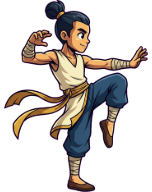
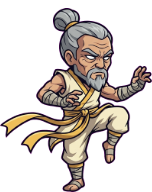
권법사를 4등신 노장으로 다시 그렸습니다
컨셉은 그대로 두고 둘을 고쳤습니다 — 비례와 나이.

── 비례: 말이 아니라 그림으로 못박습니다 ──────────────
첫 판이 6~7등신 소년으로 왔습니다. gen-sheet.js 가 같은 일로 한 번 데었던
자리입니다 (궁수에게 "slim tall body" 라고 적었더니 혼자 7등신). 거기서는
PROPORTION 이라는 글로 막았는데, gen-sprite.js 에는 그게 없었습니다.

둘 다 했습니다.

- PROPORTION 을 gen-sprite.js 에도 두고 group: 'player' 에 붙였습니다.
  앞으로 들어올 넷도 자동으로 걸립니다
- 그리고 **이미 서 있는 전사와 도적을 style 참조로 물렸습니다.** 글로
  "4등신" 이라고 적는 것보다 재라고 그림을 붙이는 쪽이 셉니다

그 김에 STYLE_RULE 이 틀린 말을 하고 있던 것을 고쳤습니다. "three-head
chibi" 라고 박혀 있었는데 그건 상점 사람들 이야기고 주인공 넷은 4등신입니다.
주인공에 물리는 순간 글과 붙인 그림이 서로 다른 말을 합니다. 등신 수를 빼고
**붙인 그림에서 재라고** 바꿨습니다.

── 나이 ────────────────────────────────────────────────
쇳빛 머리, 앞으로 내민 짧은 흰 수염, 깊은 이마 주름, 가늘게 뜬 눈.
늙었지만 약하지 않게 — 맨팔에 힘줄이 서고 자세가 조금도 안 흔들리게
적었습니다. 수염이 턱 밖으로 나와서 실루엣에도 한 조각 보탭니다.

── 재 본 것 ────────────────────────────────────────────
sil-check 통과 — 넷이 여전히 갈립니다. 비례를 맞췄는데도 든 무릎 · 뒤로
날리는 띠 · 벌린 팔이 그대로 남았습니다.
진짜 붉음 0.01% (전사 0.37% · 궁수 0.42% 보다 깨끗합니다).
살빛이 11% 에서 3.4% 로 내렸습니다 — 노장이라 팔을 더 감았습니다.

── 열쇠는 pro 가 아니라 참조였습니다 ───────────────────
그리던 날 gemini-3-pro-image 가 **열한 번 내리 503** 이었습니다.
gemini-3.1-flash-image 로 뽑았는데, 참조 둘이 붓과 비례를 잡아 줘서 셋 옆에
세울 만하게 나왔습니다. 참조가 없었으면 모델을 못 바꿨을 겁니다.
(2.5-flash 는 마젠타를 못 걷어내고 분홍 배경째로 왔습니다)
어느 모델로 뽑았는지 주문서에 적어 뒀습니다.

Claude-Session: https://claude.ai/code/session_01M5pTenpaLjjehZFnDFMiCo

diff --git a/gen-sprite.js b/gen-sprite.js
@@ -54,6 +54,21 @@ const BG = [
   'leave a small clean margin all around.',
 ].join(' ');
 
+// ── 사람은 넷 다 같은 비례여야 합니다 ────────────────────
+// gen-sheet.js 가 같은 문제로 한 번 데었습니다. 궁수에게 "slim tall body" 라고
+// 적었더니 혼자 **7등신 실사 비례**로 나와서, 전사·도적(4등신) 옆에 세우면
+// 딴 게임 사람이었습니다. 여기서도 권법사가 6~7등신 소년으로 왔습니다.
+//
+// **키나 체격은 몸이 아니라 자세와 옷으로 말하게 하고, 비례는 여기서 못박습니다.**
+// 직업 고르기 격자는 여덟을 한 화면에 나란히 세우는 자리라(ART.md 2.5절)
+// 하나만 비례가 달라도 그 칸만 튑니다.
+const PROPORTION = [
+  'PROPORTIONS (identical for every hero in this game): a chunky CHIBI build about four heads',
+  'tall — a big head, a short sturdy torso, short thick limbs, large hands and boots.',
+  'NOT a realistic six-, seven- or eight-head figure, not slender, not lanky, not tall,',
+  'not a teenager and not a young adult body.',
+].join(' ');
+
 const FORBID = [
   // 아이템에서 자꾸 무생물에 눈을 그려 옵니다 — 폭탄 · 모루 · 망치 · 약병에
   // 만화 눈이 달려 나왔습니다. 적과 주인공만 눈을 가집니다.
@@ -98,6 +113,15 @@ const SUBJECTS = [
   // 그래서 튀어나오는 것을 넷으로 나눠 걸었습니다 — 위로 상투, 앞으로 든
   // 무릎, 뒤로 날리는 띠, 옆으로 벌린 손.
   { name: 'player-monk', group: 'player', w: 38, h: 48, anchor: 'bottom',
+    // 첫 판이 6~7등신 소년으로 왔습니다. 말로만 4등신이라고 하면 모델이
+    // 제 결로 갑니다 — 이미 서 있는 둘을 붙여서 비례를 재게 합니다.
+    //
+    // 이 그림은 **gemini-3.1-flash-image** 로 뽑았습니다. 그리던 날 pro 가
+    // 열한 번 내리 503 이었습니다. 참조 둘이 붓과 비례를 잡아 줘서 flash 로도
+    // 셋 옆에 세울 만하게 나왔습니다 — 참조가 없었으면 못 바꿨을 겁니다.
+    //   GEMINI_IMAGE_MODEL=gemini-3.1-flash-image node gen-sprite.js player-monk
+    // (2.5-flash 는 마젠타를 못 걷어내고 분홍 배경째로 왔습니다)
+    style: ['player-warrior', 'player-rogue'],
     what: 'A bare-handed martial artist hero, mid-stance, caught in one dynamic pose. '
         + 'HIS HANDS ARE COMPLETELY EMPTY — no weapon, no staff, no sword, no shield, '
         + 'nothing held and nothing strapped to him. That emptiness is the point. '
@@ -108,10 +132,15 @@ const SUBJECTS = [
         + 'A long cloth SASH tied at his waist streams out BEHIND him, well clear of the '
         + 'body, a separate ribbon of cloth. '
         + 'His hair is gathered into a TOPKNOT that sticks up above the crown of his head. '
+        + 'He is an OLD MASTER, weathered and well past his prime years: iron-grey hair, '
+        + 'a short grey chin beard jutting forward, a heavy lined brow, deep-set narrow eyes '
+        + 'and a hard set mouth. He must clearly read as an old veteran, NOT as a boy, '
+        + 'NOT as a teenager, NOT as a smooth-faced young man. '
+        + 'Old but not frail — corded, wiry muscle on the bare arms, and he holds the stance '
+        + 'with complete steadiness. '
         + 'He wears a sleeveless cream off-white tunic and loose trousers cropped at the '
         + 'shin, with cloth wraps around his forearms, hands and shins. '
-        + 'Lean and narrow — the slightest build of all the heroes, no armour, no bulk, '
-        + 'the opposite of the broad-shouldered warrior. '
+        + 'No armour and no bulk — the opposite of the broad-shouldered warrior. '
         + 'Gold accent #FFD54F on the sash and the wraps. '
         + 'NOTHING on him is red, crimson, scarlet or orange.' },
 
@@ -588,6 +617,7 @@ const FACING = {
 function promptFor(s) {
   const parts = [s.what];
   if (s.group === 'boss') parts.push(BOSS_RULES);
+  if (s.group === 'player') parts.push(PROPORTION);
   parts.push(STYLE);
   parts.push(s.bg === 'none' || s.bg === 'opaque' ? BG_OPAQUE : BG);
   parts.push(FORBID);
@@ -631,15 +661,21 @@ function refOf(subject) {
 // 서므로, 그림체가 다르면 「저건 적인가」를 한 박자 늦게 판단하게 됩니다
 // (ART.md 8.9절). 말로 "3등신 · 두꺼운 외곽선" 이라고 적어도 모델은 제 결로
 // 그립니다. 이미 그려 놓은 것을 **물려야** 합니다.
+//
+// 등신 수를 여기 글로 박아 두면 안 됩니다. 한동안 "three-head chibi" 라고
+// 적혀 있었는데, 그건 상점 사람들 이야기였습니다 — 주인공 넷은 4등신입니다
+// (gen-sheet.js 의 PROPORTION). 주인공에 이 규칙을 물리는 날 글과 그림이
+// 서로 다른 말을 하게 됩니다. **비례는 붙인 그림에서 재게 시킵니다.**
 const STYLE_RULE = [
   'The attached images are STYLE REFERENCES from this same game — a hero and a monster',
   'that already exist. They are NOT the character you are drawing: do not copy their',
   'costume, their colours, their weapon or their pose.',
-  'Copy the DRAWING STYLE exactly: the same chunky three-head chibi proportions, the same',
-  'big head to small body ratio, the same thick dark outline weight, the same flat cel',
-  'shading in three or four hard steps with no soft gradients, the same low saturation,',
-  'the same amount of detail. Put your drawing next to them and they must look like they',
-  'were painted by the same hand for the same game.',
+  'Copy the DRAWING STYLE exactly: MATCH THE HEAD-TO-BODY RATIO OF THE ATTACHED PICTURES —',
+  'measure it off them rather than choosing your own — along with the same chunky chibi',
+  'build, the same thick dark outline weight, the same flat cel shading in three or four',
+  'hard steps with no soft gradients, the same low saturation, the same amount of detail.',
+  'Put your drawing next to them and they must look like they were painted by the same',
+  'hand for the same game.',
 ].join(' ');
 
 // 같은 **사람**을 두 장으로 그릴 때 씁니다. 실루엣을 베끼는 `like` 와도,
